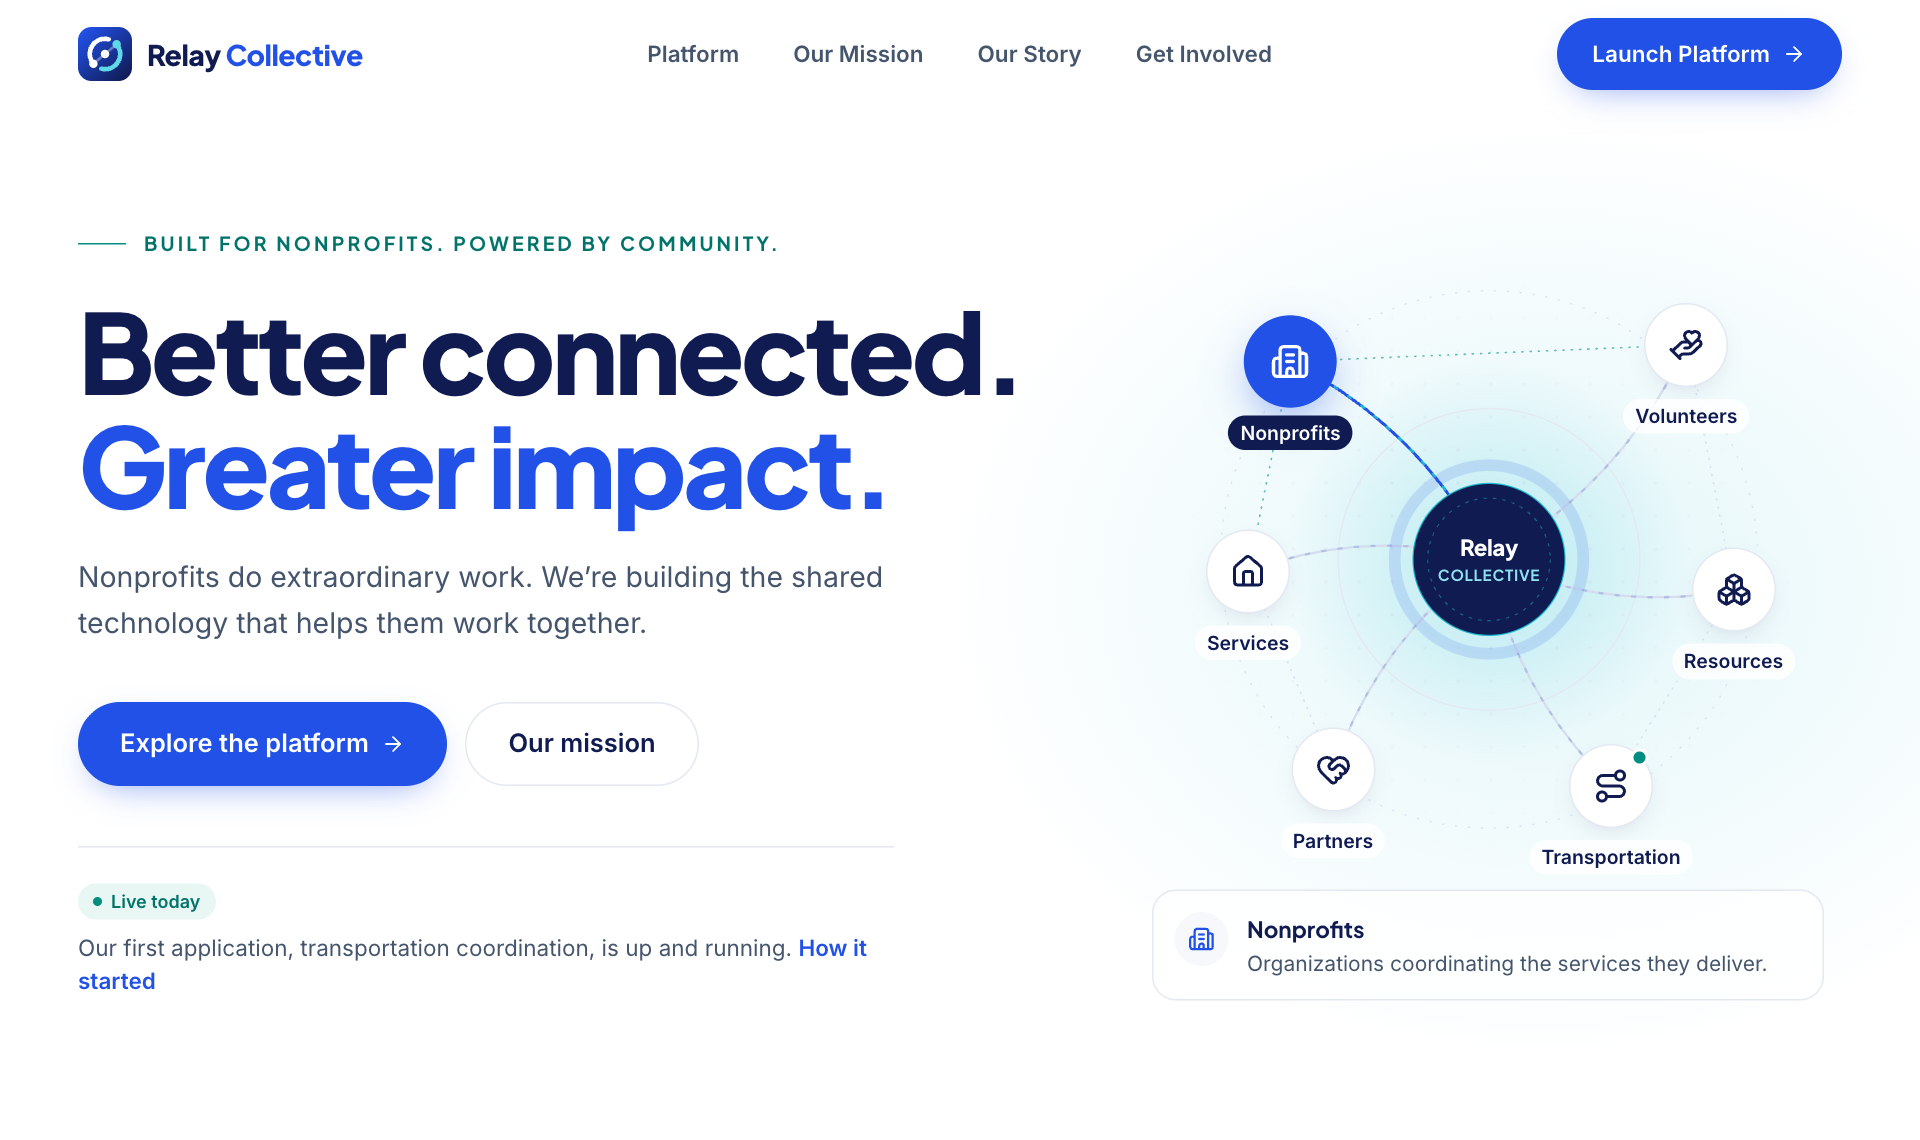
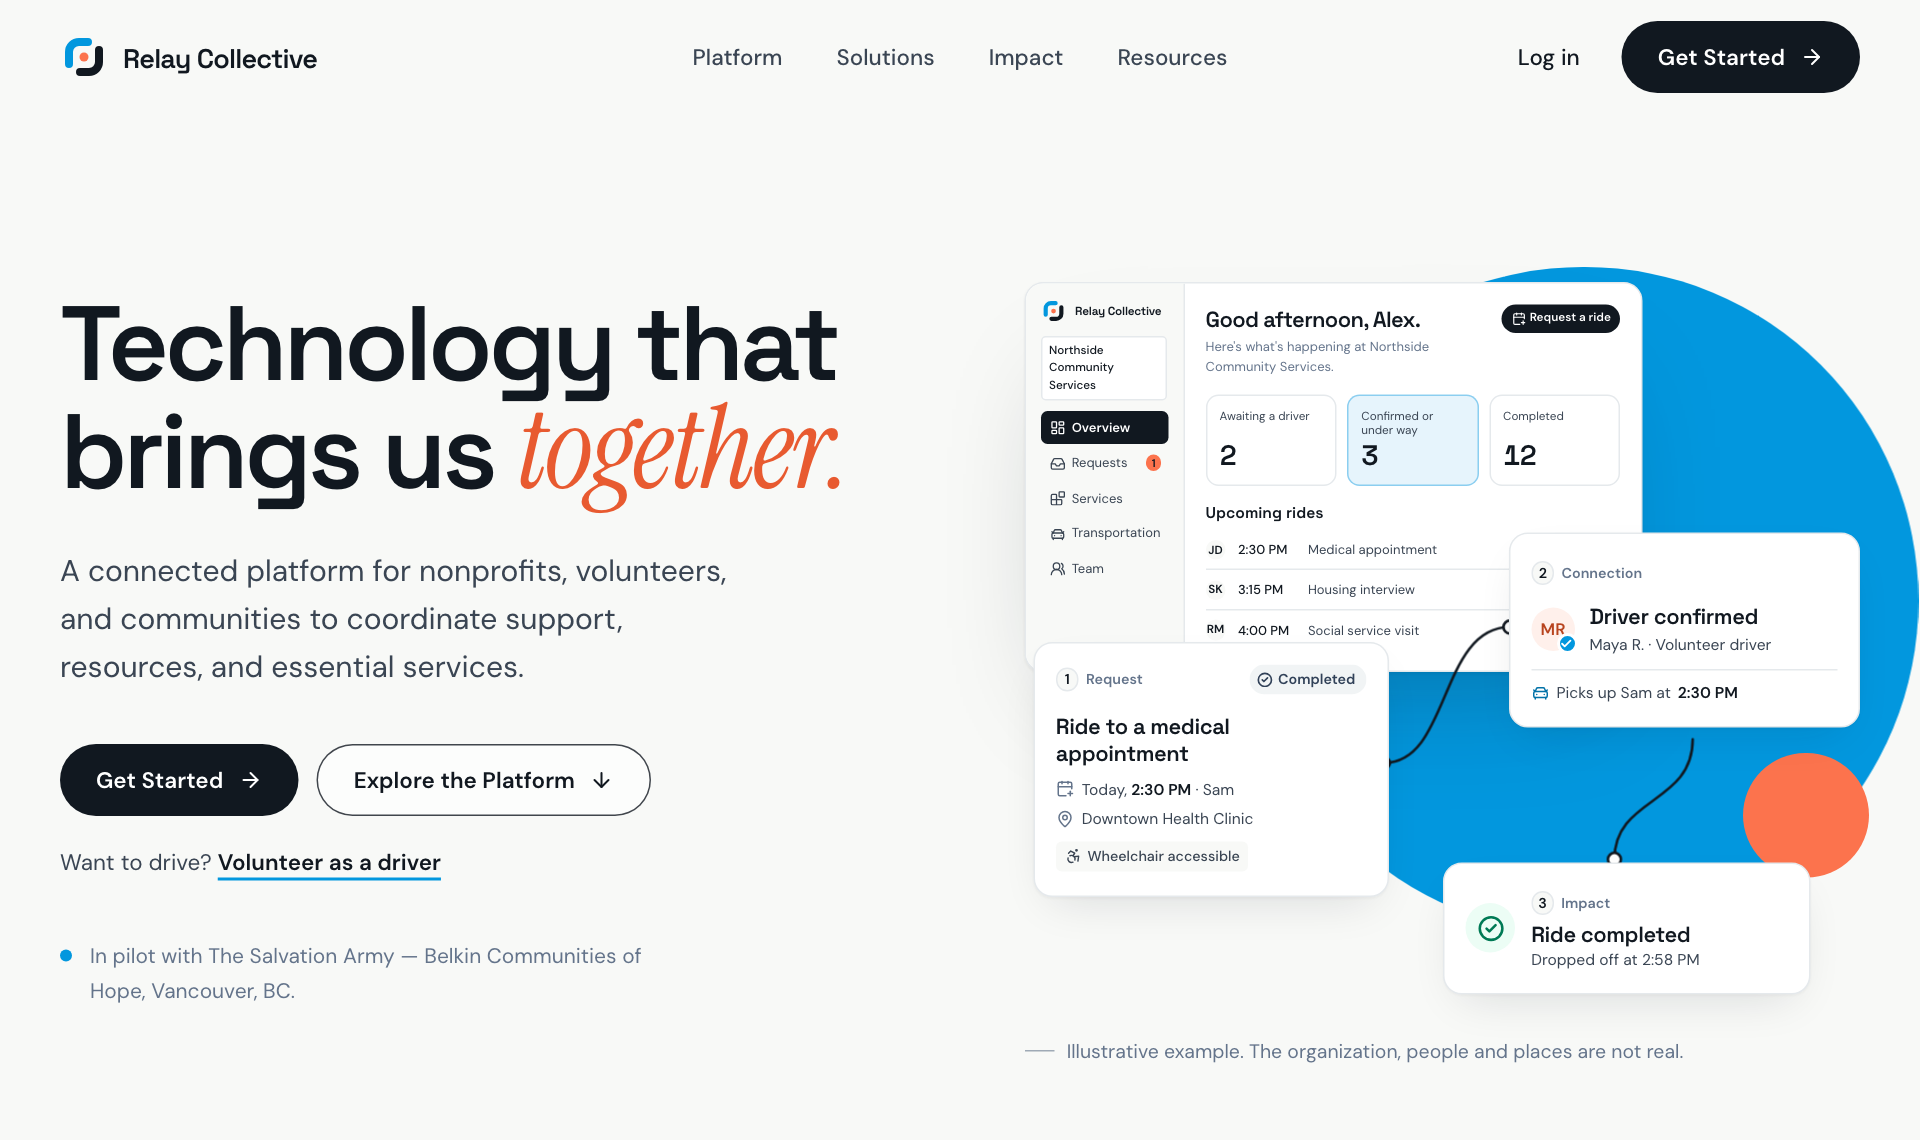
Update README

diff --git a/src/components/landing/sections/LandingFooter.tsx b/src/components/landing/sections/LandingFooter.tsx
@@ -1,4 +1,4 @@
-import { LINKS, MISSION, PARTNER, TAGLINE, TEAM } from '../content'
+import { LINKS, MISSION, PARTNER, TAGLINE } from '../content'
 import { SmartLink, Wordmark } from '../primitives'
 import { container, focusRing } from '../styles'
 
@@ -67,23 +67,7 @@ export function LandingFooter() {
 
       <div className={container}>
         <div className="flex flex-col gap-4 border-t border-hairline py-8 font-dm text-sm leading-relaxed text-hush lg:flex-row lg:items-start lg:justify-between lg:gap-10">
-          <p className="shrink-0">
-            © {new Date().getFullYear()} Relay Collective · Built by{' '}
-            {TEAM.map((m, i) => (
-              <span key={m.handle}>
-                <a
-                  href={`https://github.com/${m.handle}`}
-                  target="_blank"
-                  rel="noreferrer"
-                  className={`rounded text-midnight-soft underline underline-offset-4 decoration-midnight/25 hover:text-midnight hover:decoration-midnight ${focusRing}`}
-                >
-                  {m.name}
-                  <span className="sr-only"> on GitHub (opens in a new tab)</span>
-                </a>
-                {i < TEAM.length - 2 ? ', ' : i === TEAM.length - 2 ? ' and ' : ''}
-              </span>
-            ))}
-          </p>
+          <p className="shrink-0">© {new Date().getFullYear()} Relay Collective</p>
           <p className="max-w-xl lg:text-right">
             Born at FaithTech HACKVAN 2026 and developed in partnership with {PARTNER.name} – {PARTNER.program}. Relay Collective is an
             independent platform. It is not an emergency service: in an emergency, call 911.

diff --git a/README.md b/README.md
@@ -9,41 +9,60 @@
 </p>
 
 <p align="center">
-  <a href="https://relay-collective.relay-collective.workers.dev/"><img alt="Visit the website" src="https://img.shields.io/badge/Visit_the_website-2251E8?style=for-the-badge&logo=googlechrome&logoColor=white" /></a>
-  <a href="https://relay-collective.relay-collective.workers.dev/demo"><img alt="Walk through the transportation app" src="https://img.shields.io/badge/Transportation_app_tour-101B52?style=for-the-badge&logo=googleslides&logoColor=white" /></a>
-  <a href="docs/DEVELOPMENT.md#run-locally"><img alt="Run it locally" src="https://img.shields.io/badge/Run_it_locally-008D82?style=for-the-badge&logo=npm&logoColor=white" /></a>
+  <a href="https://relay-collective.relay-collective.workers.dev/"><img alt="Visit the website" src="https://img.shields.io/badge/Visit_the_website-0297DE?style=for-the-badge&logo=googlechrome&logoColor=white" /></a>
+  <a href="https://relay-collective.relay-collective.workers.dev/demo"><img alt="Walk through the transportation app" src="https://img.shields.io/badge/Transportation_app_tour-111820?style=for-the-badge&logo=googleslides&logoColor=white" /></a>
+  <a href="docs/DEVELOPMENT.md#run-locally"><img alt="Run it locally" src="https://img.shields.io/badge/Run_it_locally-FC734D?style=for-the-badge&logo=npm&logoColor=white" /></a>
 </p>
 
 <p align="center">
-  <img alt="Born at HACKVAN 2026" src="https://img.shields.io/badge/born_at-HACKVAN_2026-101B52?style=flat-square" />
-  <img alt="Transportation module: working MVP" src="https://img.shields.io/badge/transportation-working_MVP-008D82?style=flat-square" />
-  <img alt="Web and Android" src="https://img.shields.io/badge/web_%2B_android-responsive-18B9CF?style=flat-square" />
-  <img alt="MIT License" src="https://img.shields.io/badge/license-MIT-2251E8?style=flat-square" />
+  <img alt="Born at HACKVAN 2026" src="https://img.shields.io/badge/born_at-HACKVAN_2026-111820?style=flat-square" />
+  <img alt="Pilot partner: The Salvation Army" src="https://img.shields.io/badge/pilot_partner-The_Salvation_Army-FC734D?style=flat-square" />
+  <img alt="Transportation module: working today" src="https://img.shields.io/badge/transportation-working_today-0297DE?style=flat-square" />
+  <img alt="Web and Android" src="https://img.shields.io/badge/web_%2B_android-responsive-0272A8?style=flat-square" />
+  <img alt="Version 1.6" src="https://img.shields.io/badge/version-1.6-111820?style=flat-square" />
+  <img alt="MIT License" src="https://img.shields.io/badge/license-MIT-0297DE?style=flat-square" />
 </p>
 
 <br />
 
 <p align="center">
-  <img src="docs/images/home.png" alt="The Relay Collective website: 'Better connected. Greater impact.' beside a network linking nonprofits, volunteers, resources, partners, services, and transportation through Relay Collective." width="76%" />
+  <img src="docs/images/home.png" alt="The Relay Collective website: 'Technology that brings us together.' beside one ride playing out in the app, from a staff request to a volunteer driver confirming and the ride being completed." width="76%" />
   &nbsp;
   <img src="docs/images/mobile.png" alt="The Relay Collective website on a phone." width="21%" />
 </p>
 
 ## 🧩 What we're building
 
-One shared foundation, with service modules on top. Each new module starts from what the others already proved.
+One shared foundation, with services on top. Transportation is working today. Everything else builds on the same accounts, roles, and requests.
+
+| Service | What it does | Status |
+| --- | --- | --- |
+| **Transportation** | Staff request a ride for someone they support, a verified driver accepts it, and it stays in view until drop-off. | Working today |
+| **Volunteer coordination** | Connects volunteers with the organizations that need them. | Drivers today, more roles planned |
+| **Organization management** | Teams, members, invitations, join requests, and role-based access in one workspace. | Working today |
+| **Expanding services** | Resource sharing and cross-organization services, on the same foundation. | Planned |
 
 <p align="center">
-  <img src="docs/images/platform.png" alt="The platform diagram: four service modules (Transportation, a working MVP; Volunteers, Resources, and Collaboration, planned) above a shared foundation of organization management, role-based access, requests, coordination workflows, communication, and visibility." width="100%" />
+  <img src="docs/images/platform.png" alt="One foundation, many services: Transportation (working today), Volunteer coordination (drivers today, more roles planned), Organization management (working today), and Expanding services (planned), all built on a shared foundation of organizations, roles, and requests." width="100%" />
 </p>
 
-## 🌱 Our story
+### One workspace for the whole team
 
-Relay Collective started as a hackathon project at **FaithTech HACKVAN 2026**, developed in collaboration with **The Salvation Army – Belkin Communities of Hope**.
+Organizations sign in to one workspace: what needs attention, every request in flight, and the services they use, in one view.
+
+<p align="center">
+  <img src="docs/images/workspace.png" alt="The organization workspace: requests that need attention, upcoming rides with their status, and a single ride followed from request to drop-off. Illustrative demo data." width="100%" />
+</p>
+
+## Our story
+
+Relay Collective started as a hackathon project at **FaithTech HACKVAN 2026**, developed in partnership with **The Salvation Army – Belkin Communities of Hope**, our pilot partner in Vancouver, BC.
 
 Working alongside people on the front lines showed us where the barriers really are. Our first focus became clear: making **transportation** more accessible, reliable, and inclusive, because getting there is so often the first barrier between a person and the help that already exists.
 
 That project has since grown into a long-term initiative. Transportation is where we started, but it isn't where we stop: we're building toward a broader collaboration platform where nonprofits can share resources, coordinate volunteers, and work together to serve their communities.
+
+Relay Collective is an independent platform. The Salvation Army is our partner, not our owner.
 
 ---
 
